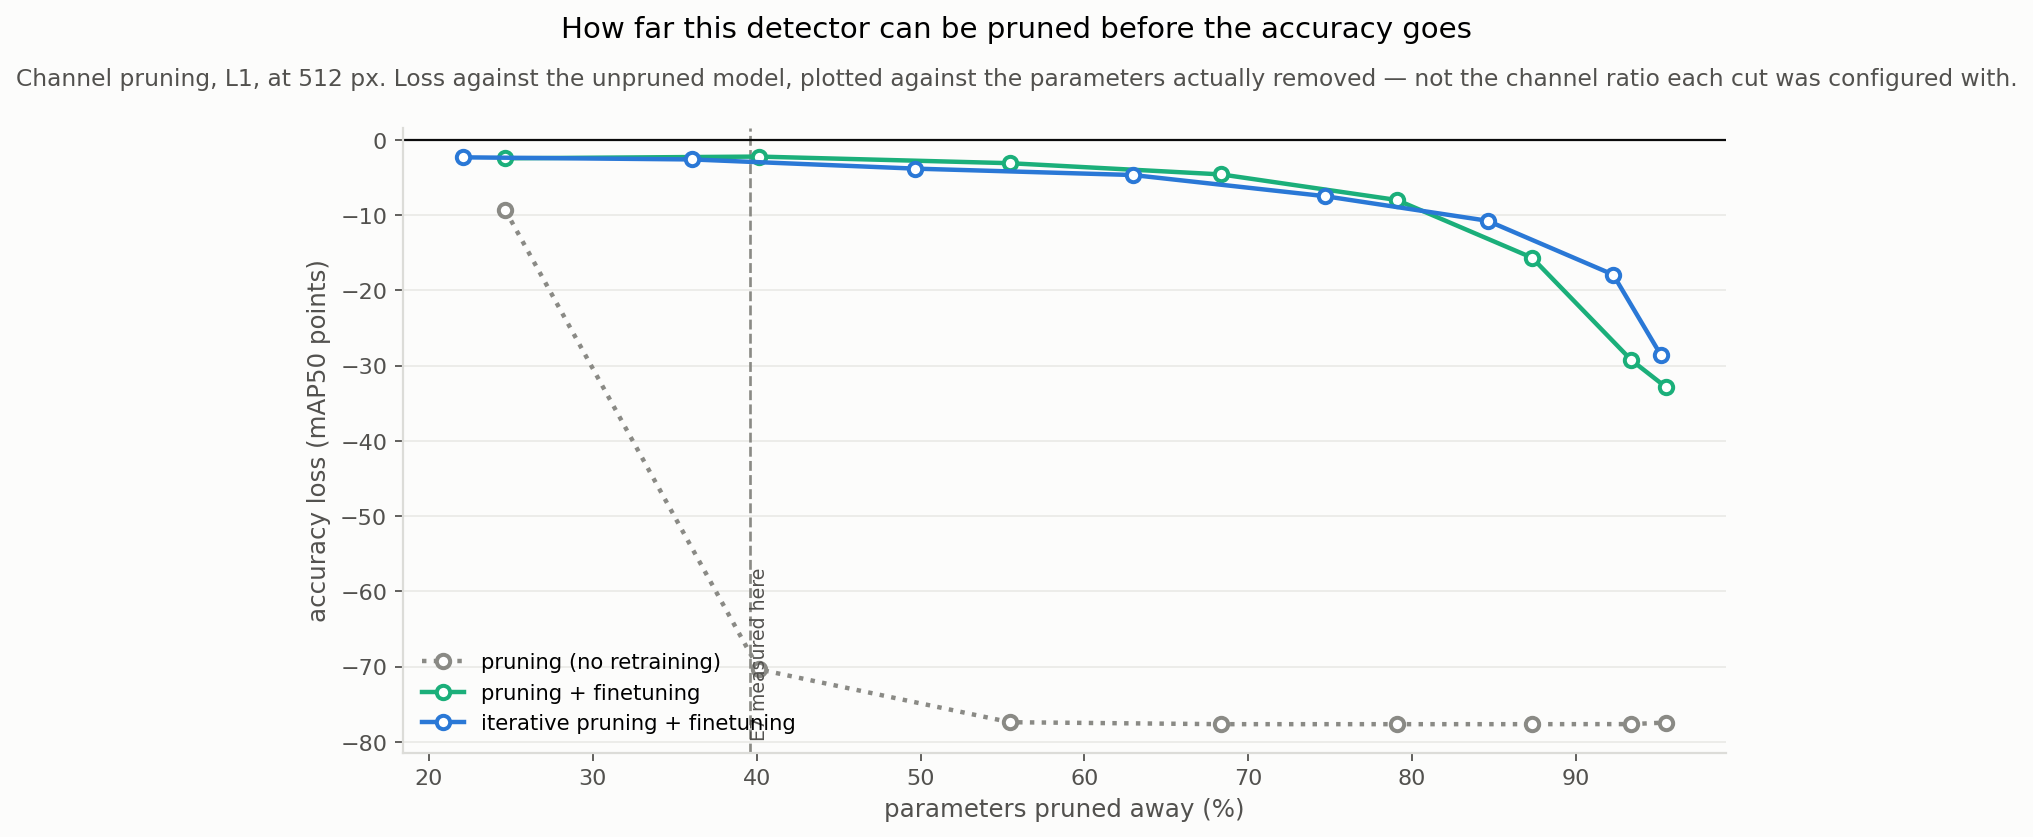
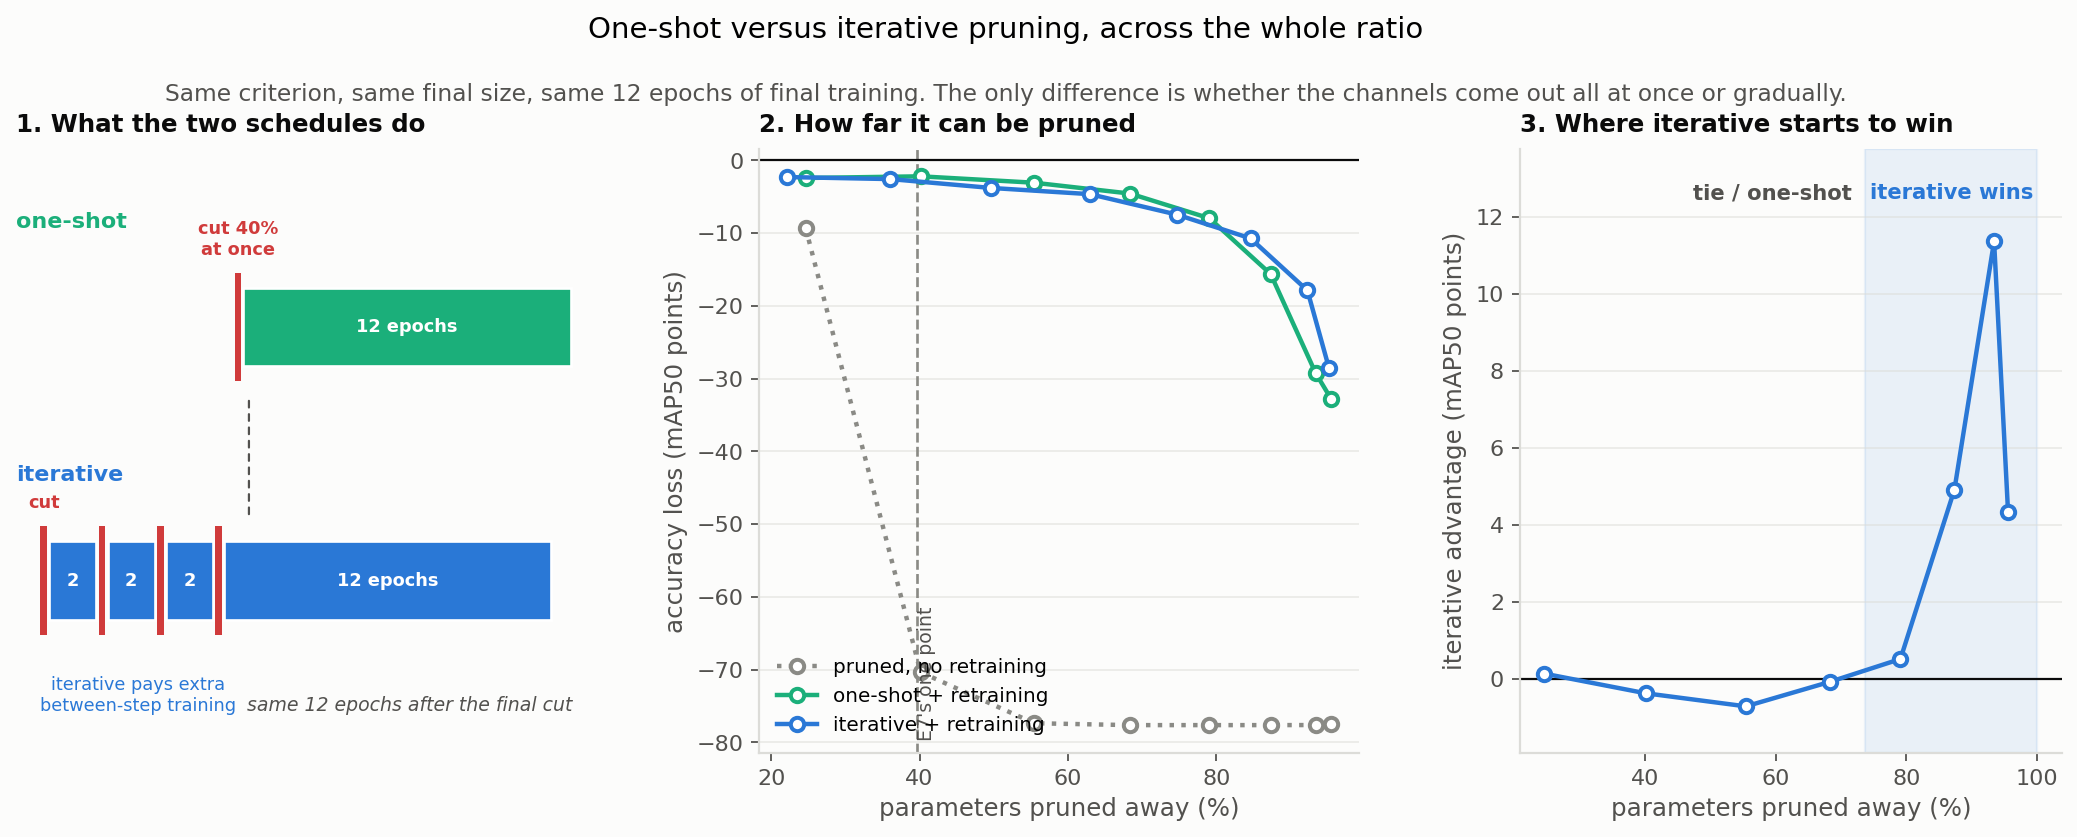
XP6 E7b figure: add an explanatory schedule panel, in the E9 style
Three panels now. Panel 1 draws what one-shot and iterative physically differ
by: one cut then 12 epochs, versus four cuts with 2 epochs between the first
three and the same 12 after the last, so the equal post-cut budget and
iterative's extra between-step training are both visible before any result.
Panel 2 is the frontier. Panel 3 is the gap between the arms, shaded where
iterative wins for good (past ~74% of parameters removed), which is the single
crossover E7's one point at 40% could not show.

diff --git a/analysis/make_figures.py b/analysis/make_figures.py
@@ -1074,29 +1074,16 @@ def fig_xp06e6(records) -> Path | None:
 
 
 def fig_xp06e7b(records) -> Path | None:
-    """The recoverable frontier: damage, one-shot and iterative across the ratio.
+    """The recoverable frontier: what the two schedules are, and where they diverge.
 
-    This is the Han-style figure the E7 comparison implicitly lives inside. E7
-    measured one-shot against iterative at a single point, 40% of parameters
-    removed, and found iterative losing; on the reference curve that point sits in
-    the flat region where the two arms are not expected to differ at all. Drawing
-    the whole sweep is what makes E7's result readable as "no difference where none
-    was predicted" rather than as a contradiction of the literature.
-
-    Plotted against **measured parameter reduction**, never the channel ratio the
-    experiment was configured with. A 25% channel cut removes 39.6% of this
-    network's parameters, and E5 and E6 both had to make that correction before
-    their comparisons meant anything.
-
-    The y-axis is accuracy *loss* against the unpruned model, matching the
-    reference, so every series starts at zero and falls. Each series carries its
-    own baseline: the damage sweep records the unpruned score measured in its own
-    run, and the trained arms are read against the screening record.
-
-    Returns None until at least the damage series exists, so the figure appears the
-    moment the cheap arm has run and fills in as the expensive ones land.
+    Three panels. First the method, drawn as two training timelines so a reader
+    can see what "one-shot" and "iterative" physically differ by, with the equal
+    post-cut budget made visible. Then the Han-style frontier, accuracy loss
+    against measured parameter reduction. Then the gap between the arms, which
+    crosses zero: the single number E7 could not see from its one point.
     """
     import matplotlib.pyplot as plt
+    from matplotlib.patches import Rectangle, FancyArrowPatch
 
     dmg_path = RAW / "xp06e7b_damage.json"
     dmg = json.loads(dmg_path.read_text()) if dmg_path.exists() else None
@@ -1108,47 +1095,121 @@ def fig_xp06e7b(records) -> Path | None:
             if m.get("params_reduction") is None or r.get("map50_dfire_test") is None:
                 continue
             arms.setdefault(r["arm"], []).append(
-                (100 * m["params_reduction"], r["map50_dfire_test"]))
+                (100 * m["params_reduction"], r["map50_dfire_test"],
+                 r.get("channel_ratio")))
     if not dmg and not arms:
         return None
+    have_gap = "oneshot" in arms and "iterative" in arms
 
+    fig = plt.figure(figsize=(16.5, 4.9))
+    gs = fig.add_gridspec(1, 3, width_ratios=[1.02, 1.05, 0.95], wspace=0.28)
+    ax0, ax1 = fig.add_subplot(gs[0, 0]), fig.add_subplot(gs[0, 1])
+    ax2 = fig.add_subplot(gs[0, 2]) if have_gap else None
+    fig.suptitle("One-shot versus iterative pruning, across the whole ratio", y=1.05)
+    style.subtitle(fig, "Same criterion, same final size, same 12 epochs of final training. "
+                        "The only difference is whether the channels come out all at once or "
+                        "gradually.", y=0.965)
+
+    # --- panel 1: the two schedules as timelines --------------------------
+    ax0.set_xlim(0, 21); ax0.set_ylim(0, 10); ax0.axis("off")
+    ax0.set_title("1. What the two schedules do", fontsize=11, pad=8, loc="left")
+    th = 1.3   # block height
+
+    def cut(x, y, label=None):
+        ax0.add_patch(Rectangle((x - 0.12, y - 0.25), 0.24, th + 0.5,
+                                facecolor=style.RED, edgecolor="none", zorder=4))
+        if label:
+            ax0.text(x, y + th + 0.55, label, ha="center", fontsize=8,
+                     color=style.RED, fontweight="bold")
+
+    def train(x, w, y, colour, label=None):
+        ax0.add_patch(Rectangle((x, y), w, th, facecolor=colour, edgecolor="white",
+                                linewidth=1.2, zorder=3))
+        if label:
+            ax0.text(x + w / 2, y + th / 2, label, ha="center", va="center",
+                     fontsize=8, color="white", fontweight="bold")
+
+    # one-shot lane (top): one cut, then 12 epochs. Aligned so its 12-epoch block
+    # ends at x=20, the same place iterative's does.
+    yo = 6.4
+    ax0.text(0, yo + th + 1.0, "one-shot", fontsize=10, fontweight="bold", color=style.AQUA)
+    cut(8, yo, "cut 40%\nat once")
+    train(8.2, 11.8, yo, style.AQUA, "12 epochs")
+
+    # iterative lane (bottom): 4 small cuts, 2 epochs between the first three, then
+    # the same 12-epoch block, ending at the same x.
+    yi = 2.2
+    ax0.text(0, yi + th + 1.0, "iterative", fontsize=10, fontweight="bold", color=style.BLUE)
+    x = 1.0
+    for k in range(3):
+        cut(x, yi, "cut" if k == 0 else None)
+        train(x + 0.2, 1.7, yi, style.BLUE, "2")
+        x += 2.1
+    cut(x, yi, None)
+    train(x + 0.2, 11.8, yi, style.BLUE, "12 epochs")
+
+    # bracket showing the equal post-cut budget under both final blocks
+    ax0.add_patch(FancyArrowPatch((8.4, yo - 0.5), (8.4, yi + th + 0.35),
+                                  arrowstyle="-", color=style.INK_2, linewidth=1.0,
+                                  linestyle=(0, (3, 3)), zorder=2))
+    ax0.text(14.2, 0.7, "same 12 epochs after the final cut", ha="center",
+             fontsize=8.5, color=style.INK_2, style="italic")
+    ax0.text(4.4, 0.7, "iterative pays extra\nbetween-step training", ha="center",
+             fontsize=8, color=style.BLUE)
+
+    # --- panel 2: the frontier --------------------------------------------
     series = []
     if dmg:
         ref = dmg["unpruned_here"]["map50"]
-        series.append(("pruning (no retraining)", style.MUTED, ":", "o",
+        series.append(("pruned, no retraining", style.MUTED, ":", "o",
                        sorted((100 * p["params_reduction"], p["map50"])
-                              for p in dmg["points"]), ref))
-    # RED is reserved in this palette for a failed configuration, so the two
-    # working arms take AQUA and BLUE and the unretrained series stays MUTED.
-    for arm, label, colour in (("oneshot", "pruning + finetuning", style.AQUA),
-                               ("iterative", "iterative pruning + finetuning", style.BLUE)):
+                              for p in dmg["points"])))
+    for arm, label, colour in (("oneshot", "one-shot + retraining", style.AQUA),
+                               ("iterative", "iterative + retraining", style.BLUE)):
         if arm in arms:
-            series.append((label, colour, "-", "o", sorted(arms[arm]), 0.7764))
+            series.append((label, colour, "-", "o",
+                           sorted((x, v) for x, v, _ in arms[arm])))
 
-    fig, ax = plt.subplots(figsize=(9.2, 5.0))
-    fig.suptitle("How far this detector can be pruned before the accuracy goes", y=1.04)
-    style.subtitle(fig, "Channel pruning, L1, at 512 px. Loss against the unpruned model, "
-                        "plotted against the parameters actually removed \u2014 not the "
-                        "channel ratio each cut was configured with.", y=0.975)
+    for label, colour, ls, mk, pts in series:
+        xs = [x for x, _ in pts]; ys = [(v - 0.7764) * 100 for _, v in pts]
+        ax1.plot(xs, ys, ls, marker=mk, color=colour, label=label, linewidth=2.0,
+                 markersize=6, markerfacecolor="white", markeredgewidth=1.8, zorder=3)
+    ax1.axhline(0, color=style.INK, linewidth=1.0, zorder=2)
+    ax1.axvline(39.6, color=style.MUTED, linestyle="--", linewidth=1.2, zorder=1)
+    ax1.text(39.6, ax1.get_ylim()[0], "  E7's one point", rotation=90, va="bottom",
+             ha="left", fontsize=8.5, color=style.INK_2)
+    ax1.set_xlabel("parameters pruned away (%)")
+    ax1.set_ylabel("accuracy loss (mAP50 points)")
+    ax1.set_title("2. How far it can be pruned", fontsize=11, pad=8, loc="left")
+    ax1.legend(frameon=False, fontsize=9, loc="lower left")
+    style.tidy(ax1)
 
-    for label, colour, ls, mk, pts, ref in series:
-        xs = [x for x, _ in pts]
-        ys = [(v - ref) * 100 for _, v in pts]
-        ax.plot(xs, ys, ls, marker=mk, color=colour, label=label,
-                linewidth=2.0, markersize=6, markerfacecolor="white",
-                markeredgewidth=1.8, zorder=3)
+    # --- panel 3: the gap that crosses zero -------------------------------
+    if have_gap:
+        om = {rr: (x, v) for x, v, rr in arms["oneshot"]}
+        im = {rr: (x, v) for x, v, rr in arms["iterative"]}
+        pts = sorted((om[k][0], (im[k][1] - om[k][1]) * 100) for k in om if k in im)
+        xs = [x for x, _ in pts]; gaps = [g for _, g in pts]
+        ax2.axhline(0, color=style.INK, linewidth=1.0, zorder=2)
+        # Shade where iterative wins for good: after the last point it trails at.
+        # The low-ratio wobble around zero is noise, not a win for either arm.
+        last_neg = max((x for x, g in pts if g < 0), default=xs[0])
+        nxt = next((x for x, _ in pts if x > last_neg), last_neg)
+        cross = (last_neg + nxt) / 2
+        ax2.axvspan(cross, 100, color=style.BLUE, alpha=0.09, zorder=0)
+        ax2.plot(xs, gaps, "-o", color=style.BLUE, linewidth=2.0, markersize=6,
+                 markerfacecolor="white", markeredgewidth=1.8, zorder=3)
+        top = max(gaps)
+        ax2.set_ylim(min(gaps) - 1.2, top + 2.4)
+        ax2.text((cross + 100) / 2, top + 1.1, "iterative wins", ha="center", fontsize=9.5,
+                 color=style.BLUE, fontweight="bold")
+        ax2.text(cross - 2, top + 1.1, "tie / one-shot", ha="right", fontsize=9.5,
+                 color=style.INK_2, fontweight="bold")
+        ax2.set_xlabel("parameters pruned away (%)")
+        ax2.set_ylabel("iterative advantage (mAP50 points)")
+        ax2.set_title("3. Where iterative starts to win", fontsize=11, pad=8, loc="left")
+        style.tidy(ax2)
 
-    ax.axhline(0, color=style.INK, linewidth=1.0, zorder=2)
-    # E7 measured exactly one point on this axis. Marking it is the whole reason
-    # the sweep exists: a reader should see which part of the curve it sampled.
-    ax.axvline(39.6, color=style.MUTED, linestyle="--", linewidth=1.2, zorder=1)
-    ax.text(39.6, ax.get_ylim()[0], "  E7 measured here", rotation=90,
-            va="bottom", ha="left", fontsize=8.5, color=style.INK_2)
-
-    ax.set_xlabel("parameters pruned away (%)")
-    ax.set_ylabel("accuracy loss (mAP50 points)")
-    ax.legend(frameon=False, fontsize=9.5, loc="lower left")
-    style.tidy(ax)
     fig.tight_layout()
     return save(fig, "xp06e7b_frontier.png")
 
